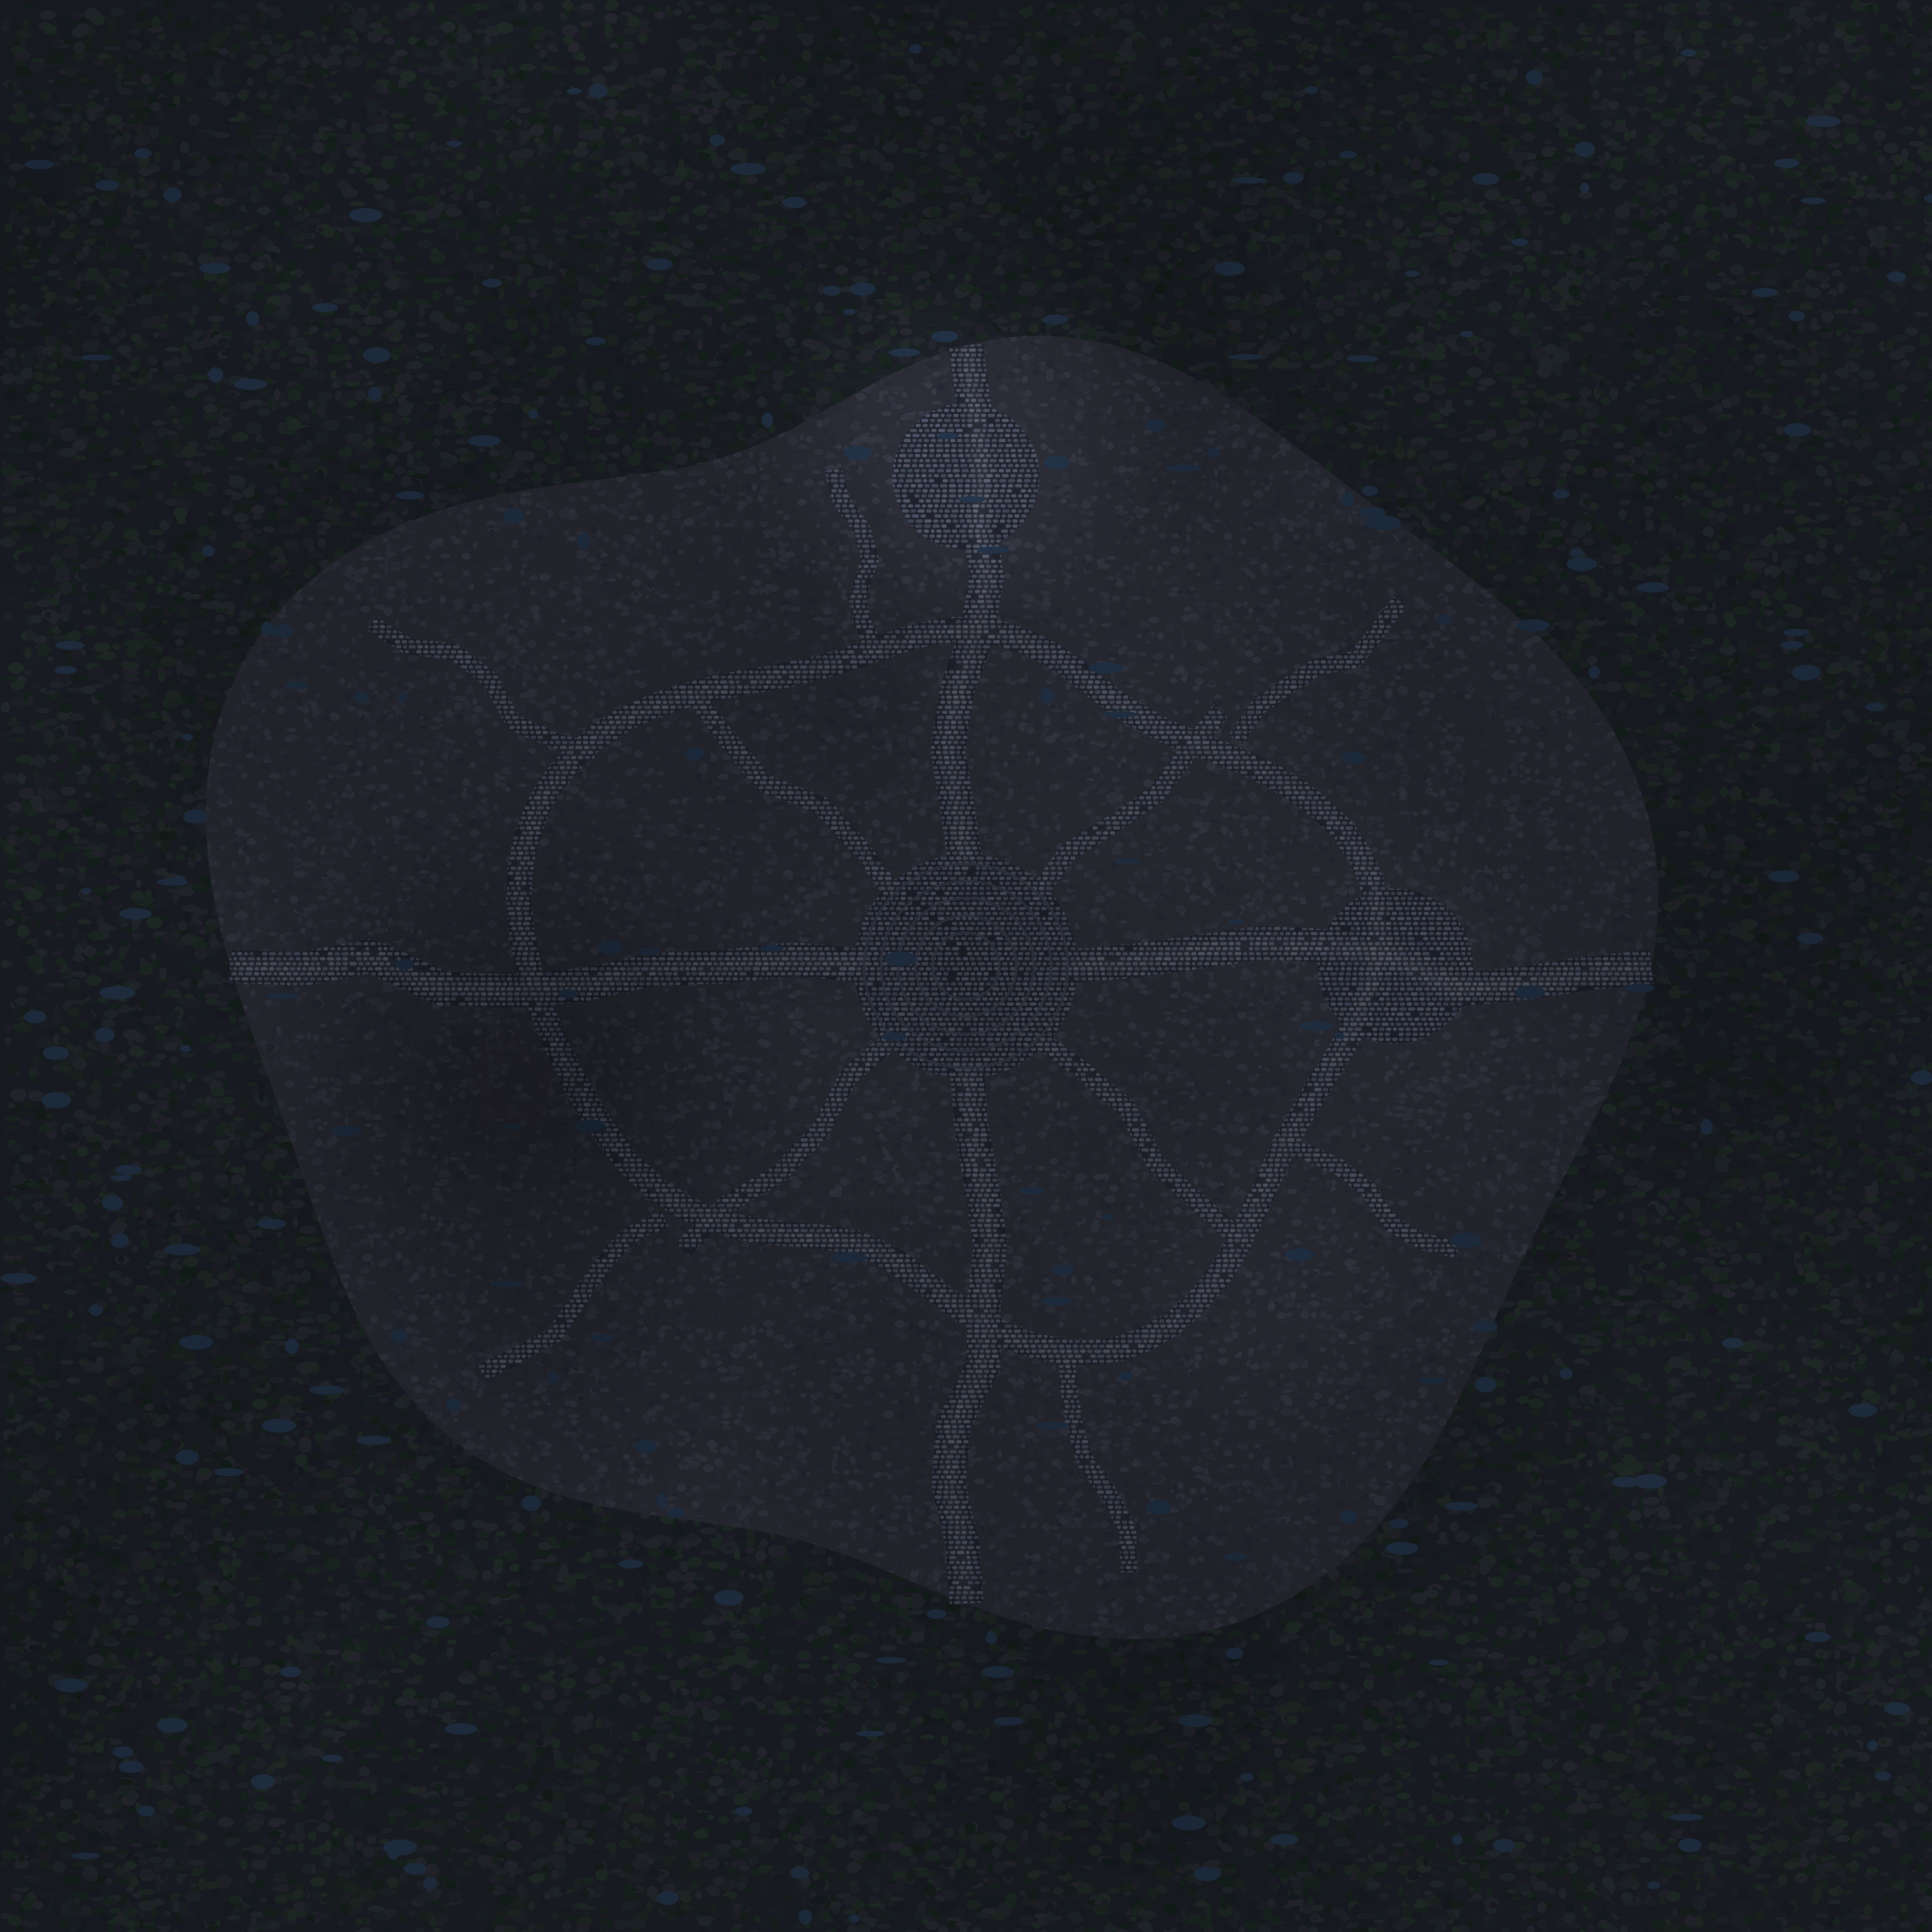
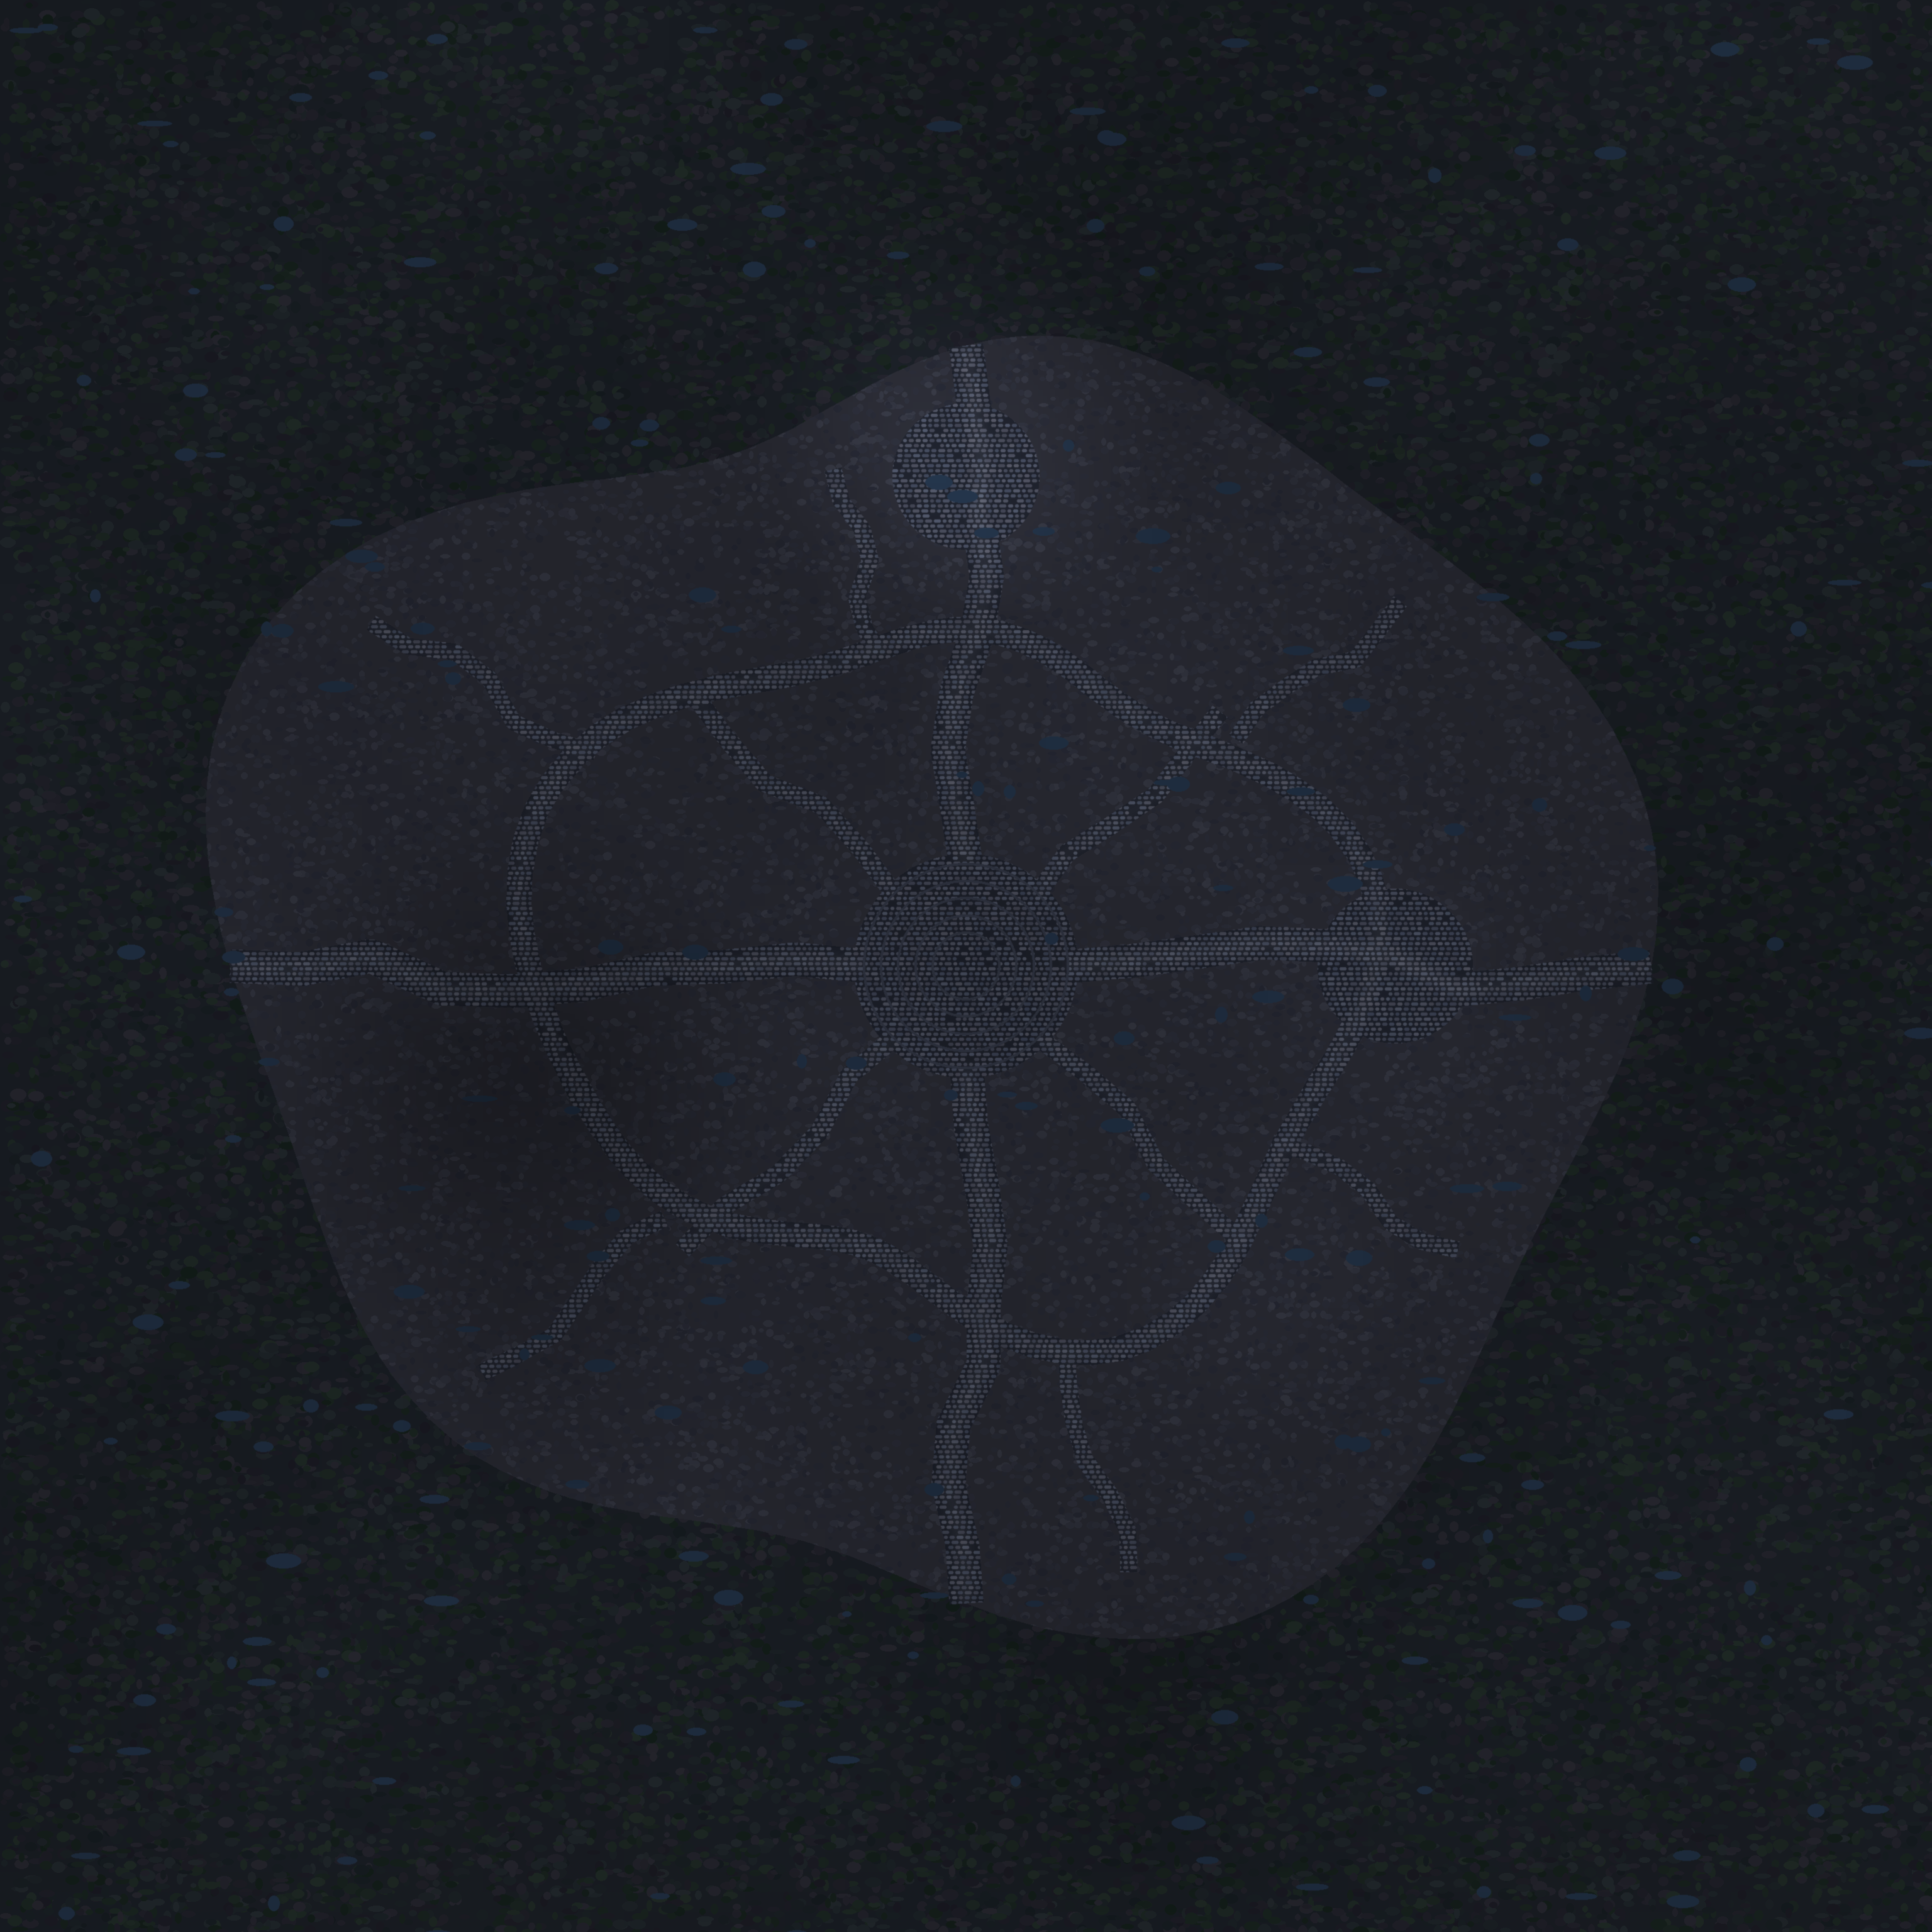
Nexarch v6 part 1: street NPCs + streaming tile pyramid for the backdrop
- Hooded townsfolk pieces (3 trim variants): kiosk shoppers, church
  congregation, plaza wanderers, gate guards, street traffic (~70 figures)
- Backdrop now streams from images/3d/tiles/: L0 overview always loaded,
  512px L1/L2 tiles fetched on demand by zoom + visible window; cinematic
  zoom cap raised 3.2 -> 5.5; single nexarch-bake.jpg removed
- Tiles currently sliced from the 4096px bake; 6144x4200 re-render with
  the NPCs lands in the next commit
- scripts/blender/nexarch-kit/gen_tiles.py builds the pyramid

https://claude.ai/code/session_01UFAE6W3Bz5GuggtQfrHjtr

diff --git a/nexarch-3d.html b/nexarch-3d.html
@@ -178,35 +178,83 @@ for (const [name, places] of Object.entries(byPiece)) {
 }
 
 // ---------------------------------------------------------- cinematic bake
-const BAKE = { yaw: Math.PI * 1.25, pitch: THREE.MathUtils.degToRad(38),
-               w: 830, h: 830 * 2800 / 4096 };
-let cinematic = false, bakeMesh = null;
+// Tile pyramid: L0 overview always on; L1/L2 512px tiles stream in by zoom.
+const BAKE = { yaw: Math.PI * 1.25, pitch: THREE.MathUtils.degToRad(38), w: 830 };
+let cinematic = false, bakeGroup = null, bakeMeta = null;
 const modeMats = [...cityMats, window.__groundMat, window.__treeMat, window.__apronMat];
+const tileLayers = {};      // lod name -> { meshes: Map "c_r" -> mesh, built }
 function setMode(c) {
-    if (c && !bakeMesh) return;
+    if (c && !bakeGroup) return;
     cinematic = c;
-    if (bakeMesh) bakeMesh.visible = c;
-    for (const m of modeMats) m.colorWrite = !c;   // depth-only in cinematic
-    if (c) { view.yaw = view.yawGoal = BAKE.yaw; view.zoom = Math.min(view.zoom, 3.2); }
+    if (bakeGroup) bakeGroup.visible = c;
+    for (const m of modeMats) m.colorWrite = !c;
+    if (c) { view.yaw = view.yawGoal = BAKE.yaw; view.zoom = Math.min(view.zoom, 5.5); }
     statusEl.dataset.mode = c ? 'CINEMATIC' : 'LIVE 3D';
 }
-texLoader.load(ASSETS + 'nexarch-bake.jpg', tex => {
-    tex.colorSpace = THREE.SRGBColorSpace;
-    tex.anisotropy = 4;
+function bakeQuat() {
     const dummy = new THREE.OrthographicCamera();
     const cp = Math.cos(BAKE.pitch), sp = Math.sin(BAKE.pitch);
     dummy.position.set(cp * Math.sin(BAKE.yaw), sp, cp * Math.cos(BAKE.yaw))
         .multiplyScalar(900);
     dummy.lookAt(0, 0, 0);
-    bakeMesh = new THREE.Mesh(
+    return dummy.quaternion.clone();
+}
+try {
+    bakeMeta = await (await fetch(ASSETS + 'tiles/meta.json')).json();
+    BAKE.h = BAKE.w * bakeMeta.fullH / bakeMeta.fullW;
+    bakeGroup = new THREE.Group();
+    bakeGroup.quaternion.copy(bakeQuat());
+    scene.add(bakeGroup);
+    const baseTex = texLoader.load(ASSETS + 'tiles/L0.jpg');
+    baseTex.colorSpace = THREE.SRGBColorSpace;
+    const base = new THREE.Mesh(
         new THREE.PlaneGeometry(BAKE.w, BAKE.h),
-        new THREE.MeshBasicMaterial({ map: tex, depthTest: false,
+        new THREE.MeshBasicMaterial({ map: baseTex, depthTest: false,
                                       depthWrite: false, toneMapped: false }));
-    bakeMesh.quaternion.copy(dummy.quaternion);
-    bakeMesh.renderOrder = -10;
-    scene.add(bakeMesh);
+    base.renderOrder = -12;
+    bakeGroup.add(base);
     setMode(true);
-}, undefined, () => console.warn('no bake image — staying in live mode'));
+} catch (e) { console.warn('no bake tiles — staying in live mode', e); }
+
+function ensureTiles() {
+    if (!cinematic || !bakeMeta) return;
+    const lod = view.zoom >= 3.0 ? 'L2' : (view.zoom >= 1.6 ? 'L1' : null);
+    if (!lod) return;
+    const info = bakeMeta.lods.find(l => l.name === lod);
+    const layer = (tileLayers[lod] ??= { meshes: new Map() });
+    // visible window in bake-local coords
+    const right = new THREE.Vector3(1, 0, 0).applyQuaternion(bakeGroup.quaternion);
+    const up = new THREE.Vector3(0, 1, 0).applyQuaternion(bakeGroup.quaternion);
+    const lx = view.target.dot(right), ly = view.target.dot(up);
+    const hw = (460 / view.zoom) * (innerWidth / innerHeight) / 2 + 30;
+    const hh = (460 / view.zoom) / 2 + 30;
+    const px = bakeMeta.fullW / (lod === 'L1' ? 2 : 1) / BAKE.w;  // px per unit
+    const t = bakeMeta.tile;
+    const c0 = Math.max(0, Math.floor(((lx - hw) + BAKE.w / 2) * px / t));
+    const c1 = Math.min(info.cols - 1, Math.floor(((lx + hw) + BAKE.w / 2) * px / t));
+    const r0 = Math.max(0, Math.floor((BAKE.h / 2 - (ly + hh)) * px / t));
+    const r1 = Math.min(info.rows - 1, Math.floor((BAKE.h / 2 - (ly - hh)) * px / t));
+    for (let r = r0; r <= r1; r++)
+        for (let c = c0; c <= c1; c++) {
+            const key = `${c}_${r}`;
+            if (layer.meshes.has(key)) continue;
+            layer.meshes.set(key, true);
+            texLoader.load(`${ASSETS}tiles/${lod}/${key}.jpg`, tex => {
+                tex.colorSpace = THREE.SRGBColorSpace;
+                const tw = Math.min(t, info.w - c * t), th = Math.min(t, info.h - r * t);
+                const w = BAKE.w * tw / info.w, h = BAKE.h * th / info.h;
+                const mesh = new THREE.Mesh(new THREE.PlaneGeometry(w, h),
+                    new THREE.MeshBasicMaterial({ map: tex, depthTest: false,
+                                                  depthWrite: false, toneMapped: false }));
+                mesh.position.set(-BAKE.w / 2 + (c * t + tw / 2) / info.w * BAKE.w,
+                                  BAKE.h / 2 - (r * t + th / 2) / info.h * BAKE.h, 0.1);
+                mesh.renderOrder = lod === 'L2' ? -10 : -11;
+                layer.meshes.set(key, mesh);
+                bakeGroup.add(mesh);
+            });
+        }
+}
+setInterval(ensureTiles, 250);
 
 // ---------------------------------------------------------------- labels
 const LABEL_H = { 'CHURCH': 52, 'ARENA': 34, 'THE CORE': 20, 'FORGE': 28,
@@ -410,7 +458,7 @@ addEventListener('pointermove', e => {
     view.target.y = 0;
 });
 addEventListener('wheel', e => {
-    view.zoom = THREE.MathUtils.clamp(view.zoom * (e.deltaY > 0 ? 0.9 : 1.12), 0.55, cinematic ? 3.2 : 7);
+    view.zoom = THREE.MathUtils.clamp(view.zoom * (e.deltaY > 0 ? 0.9 : 1.12), 0.55, cinematic ? 5.5 : 7);
 });
 addEventListener('keydown', e => {
     const k = e.key.toLowerCase();

diff --git a/scripts/blender/nexarch-kit/gen_tiles.py b/scripts/blender/nexarch-kit/gen_tiles.py
@@ -1,0 +1,45 @@
+"""Slice the baked backdrop into a 3-level tile pyramid for zoom streaming.
+
+Output: images/3d/tiles/L0.jpg              (1536-wide overview, single file)
+        images/3d/tiles/L1/{col}_{row}.jpg  (3072-wide, 512px tiles)
+        images/3d/tiles/L2/{col}_{row}.jpg  (full res,  512px tiles)
+Plus tiles/meta.json with pixel sizes the viewer needs.
+"""
+import json
+import os
+import sys
+
+from PIL import Image
+
+SRC = "/tmp/citybuild/nexarch-bake.png"
+OUT = sys.argv[1] if len(sys.argv) > 1 else "/tmp/citybuild/tiles"
+TILE = 512
+
+img = Image.open(SRC).convert("RGB")
+W, H = img.size
+meta = {"fullW": W, "fullH": H, "tile": TILE, "lods": []}
+
+os.makedirs(OUT, exist_ok=True)
+overview = img.resize((W // 4, H // 4), Image.LANCZOS)
+overview.save(f"{OUT}/L0.jpg", quality=86)
+meta["lods"].append({"name": "L0", "w": W // 4, "h": H // 4, "single": True})
+
+for name, scale in (("L1", 2), ("L2", 1)):
+    lw, lh = W // scale, H // scale
+    level = img if scale == 1 else img.resize((lw, lh), Image.LANCZOS)
+    os.makedirs(f"{OUT}/{name}", exist_ok=True)
+    cols = (lw + TILE - 1) // TILE
+    rows = (lh + TILE - 1) // TILE
+    for r in range(rows):
+        for c in range(cols):
+            box = (c * TILE, r * TILE, min((c + 1) * TILE, lw),
+                   min((r + 1) * TILE, lh))
+            level.crop(box).save(f"{OUT}/{name}/{c}_{r}.jpg", quality=86)
+    meta["lods"].append({"name": name, "w": lw, "h": lh,
+                         "cols": cols, "rows": rows})
+
+with open(f"{OUT}/meta.json", "w") as f:
+    json.dump(meta, f)
+total = sum(os.path.getsize(os.path.join(dp, fn))
+            for dp, _, fns in os.walk(OUT) for fn in fns)
+print(f"tiles done: {total / 1e6:.1f} MB")

diff --git a/scripts/blender/nexarch-kit/gen_layout.py b/scripts/blender/nexarch-kit/gen_layout.py
@@ -471,6 +471,47 @@ for _ in range(160):
         blockers.append((x, z, 1.2))
         n_clutter += 1
 
+# hooded townsfolk: market crowd, plaza loiterers, street wanderers
+NPCS = ("npc_c", "npc_m", "npc_o")
+
+
+def put_npc(x, z, face_x=None, face_z=None):
+    global n_clutter
+    if road_dist(x, z) > 4 or blocked(x, z, 0.7, 0.9):
+        return
+    rot = (face(x, z, face_x, face_z) if face_x is not None
+           else random.uniform(0, 2 * math.pi))
+    place(random.choice(NPCS), x, z, rot + random.uniform(-0.25, 0.25),
+          s=round(random.uniform(0.92, 1.1), 2), sink=0.1)
+    blockers.append((x, z, 0.7))
+    n_clutter += 1
+
+
+for (kx, kz) in [(182, -20), (218, -16), (184, 18), (216, 20), (234, 2)]:
+    for _ in range(2):                                   # shoppers at kiosks
+        a = random.uniform(0, 6.28)
+        put_npc(kx + 6.5 * math.cos(a), kz + 6.5 * math.sin(a), kx, kz)
+for _ in range(5):                                       # church congregation
+    a = random.uniform(0, 6.28)
+    rr = random.uniform(8, 26)
+    put_npc(rr * math.cos(a), -228 + rr * math.sin(a) * 0.7, 0, -250)
+for _ in range(6):                                       # plaza wanderers
+    a = random.uniform(0, 6.28)
+    rr = random.uniform(14, 44)
+    put_npc(rr * math.cos(a), rr * math.sin(a))
+for g in GATE_THETA.values():                            # gate guards
+    gr = wall_R(g) - 18
+    gx_, gz_ = gr * math.cos(g), gr * math.sin(g)
+    for side in (-6, 6):
+        put_npc(gx_ + side * abs(math.sin(g)), gz_ + side * abs(math.cos(g)))
+for r in ROADS:                                          # street traffic
+    p = r["pts"]
+    for i in range(len(p) - 1):
+        if random.random() < 0.30:
+            t = random.random()
+            put_npc(p[i][0] + (p[i + 1][0] - p[i][0]) * t + random.uniform(-3, 3),
+                    p[i][1] + (p[i + 1][1] - p[i][1]) * t + random.uniform(-3, 3))
+
 # braziers flanking each gate (placed after GATES exist, see below)
 print(f"clutter: {n_clutter} props")
 

diff --git a/scripts/blender/nexarch-kit/build_kit.py b/scripts/blender/nexarch-kit/build_kit.py
@@ -76,6 +76,10 @@ m_trash, bsdf, _ = new_mat("M_Trash")
 bsdf.inputs["Base Color"].default_value = (0.035, 0.04, 0.035, 1)
 bsdf.inputs["Roughness"].default_value = 0.95
 M["trash"] = m_trash
+m_cloak, bsdf, _ = new_mat("M_Cloak")
+bsdf.inputs["Base Color"].default_value = (0.018, 0.02, 0.026, 1)
+bsdf.inputs["Roughness"].default_value = 0.95
+M["cloak"] = m_cloak
 
 KIT = []
 
@@ -757,6 +761,19 @@ def water_pod():
     return p.done()
 
 
+def npc(name, trim):
+    """Hooded townsfolk, like the figures in the pixel-art reference."""
+    p = Piece(name)
+    p.cylinder("cloak", 0, 0, 0, 0.95, 2.7, seg=9, r2=0.55)      # robe
+    p.cylinder("cloak", 0, 0, 2.5, 0.62, 0.9, seg=8, r2=0.30)    # hood
+    p.cone("cloak", 0, 0, 3.35, 0.32, 0.45, seg=8)               # hood peak
+    p.glow_quad(trim, 0, -0.50, 2.62, 0.34, 0.14)                # eye glow
+    p.glow_quad(trim, 0, -0.86, 0.5, 0.22, 1.7)                  # robe trim
+    p.box("cloak", -0.78, -0.25, 1.1, 0.34, 0.34, 1.1, rz=0.3)   # arms
+    p.box("cloak", 0.78, -0.25, 1.1, 0.34, 0.34, 1.1, rz=-0.3)
+    return p.done()
+
+
 PIECES = [house_small(), house_med(), house_tall(), tower_round(), cathedral(),
           arena(), wall_seg(), wall_tower(), gate(),
           monolith("monolith_c", "winC", "glowC"),
@@ -765,7 +782,8 @@ PIECES = [house_small(), house_med(), house_tall(), tower_round(), cathedral(),
           crate(), barrel(), sacks(), cart(), banner_pole(), banner_pole_c(),
           holo_sign(), cable_span(), rubble(), brazier(), bush(), carpet(),
           carpet_c(), house_jetty(), server_rack(), kiosk(), e_waste(),
-          house_L(), garbage_pile(), water_pod()]
+          house_L(), garbage_pile(), water_pod(),
+          npc("npc_c", "glowC"), npc("npc_m", "glowM"), npc("npc_o", "glowO")]
 
 # ---------------------------------------------------------------- export
 bpy.ops.object.select_all(action="DESELECT")

diff --git a/scripts/blender/nexarch-kit/bake_city.py b/scripts/blender/nexarch-kit/bake_city.py
@@ -9,7 +9,7 @@ import bpy
 import bmesh
 
 OUT = "/tmp/citybuild"
-RES_X, RES_Y = 4096, 2800
+RES_X, RES_Y = 6144, 4200
 ORTHO = 830.0
 AZ, PITCH = 135.0, 38.0
 
@@ -132,7 +132,7 @@ cam.rotation_euler = (math.radians(90 - PITCH), 0, math.radians(AZ + 90))
 
 scene.render.engine = "CYCLES"
 scene.cycles.device = "CPU"
-scene.cycles.samples = 28
+scene.cycles.samples = 24
 scene.cycles.use_denoising = True
 scene.cycles.sample_clamp_indirect = 8.0
 scene.render.resolution_x = RES_X